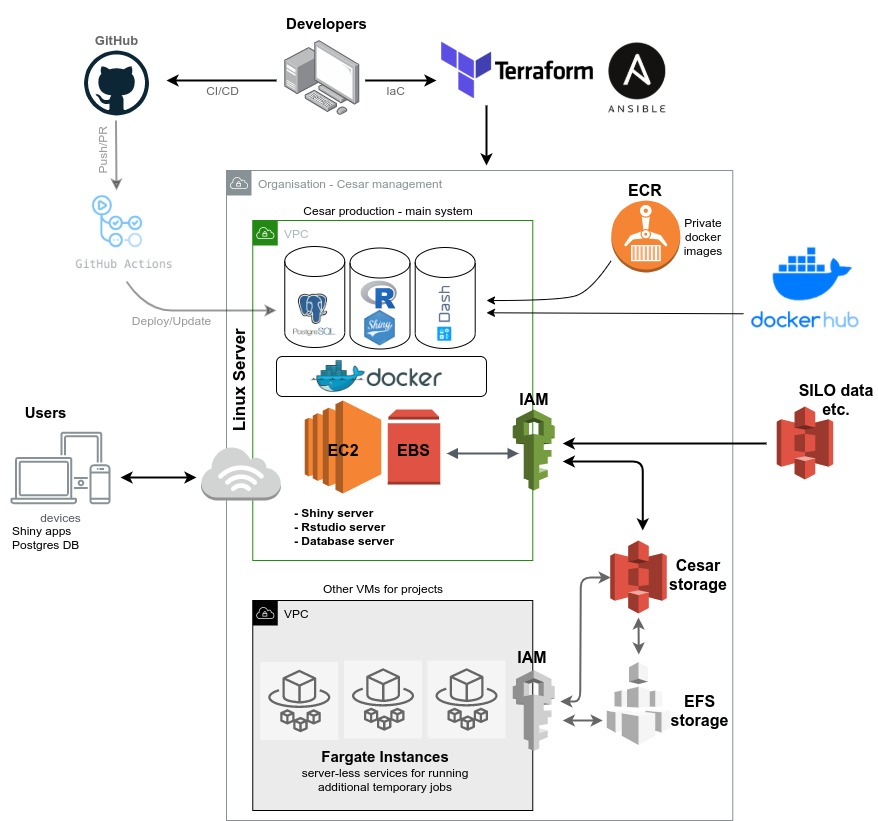
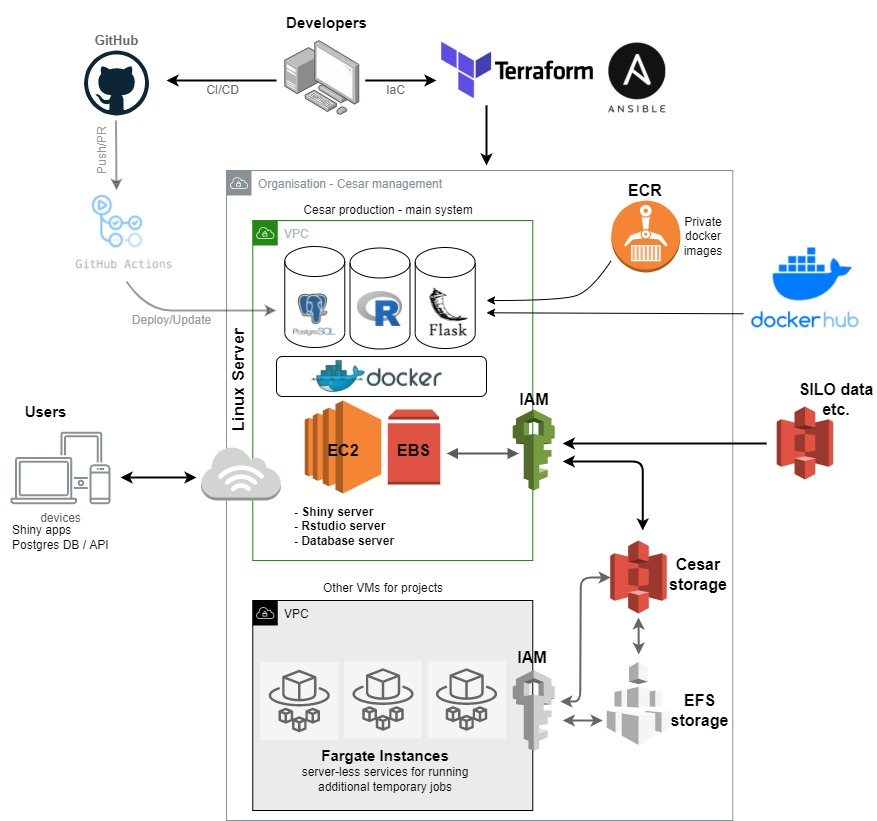
documenation

diff --git a/docs/README.md b/docs/README.md
@@ -27,4 +27,6 @@ following sections.
 
 ### PostgreSQL database
 
+### Database API
+
 ## GitHub actions
